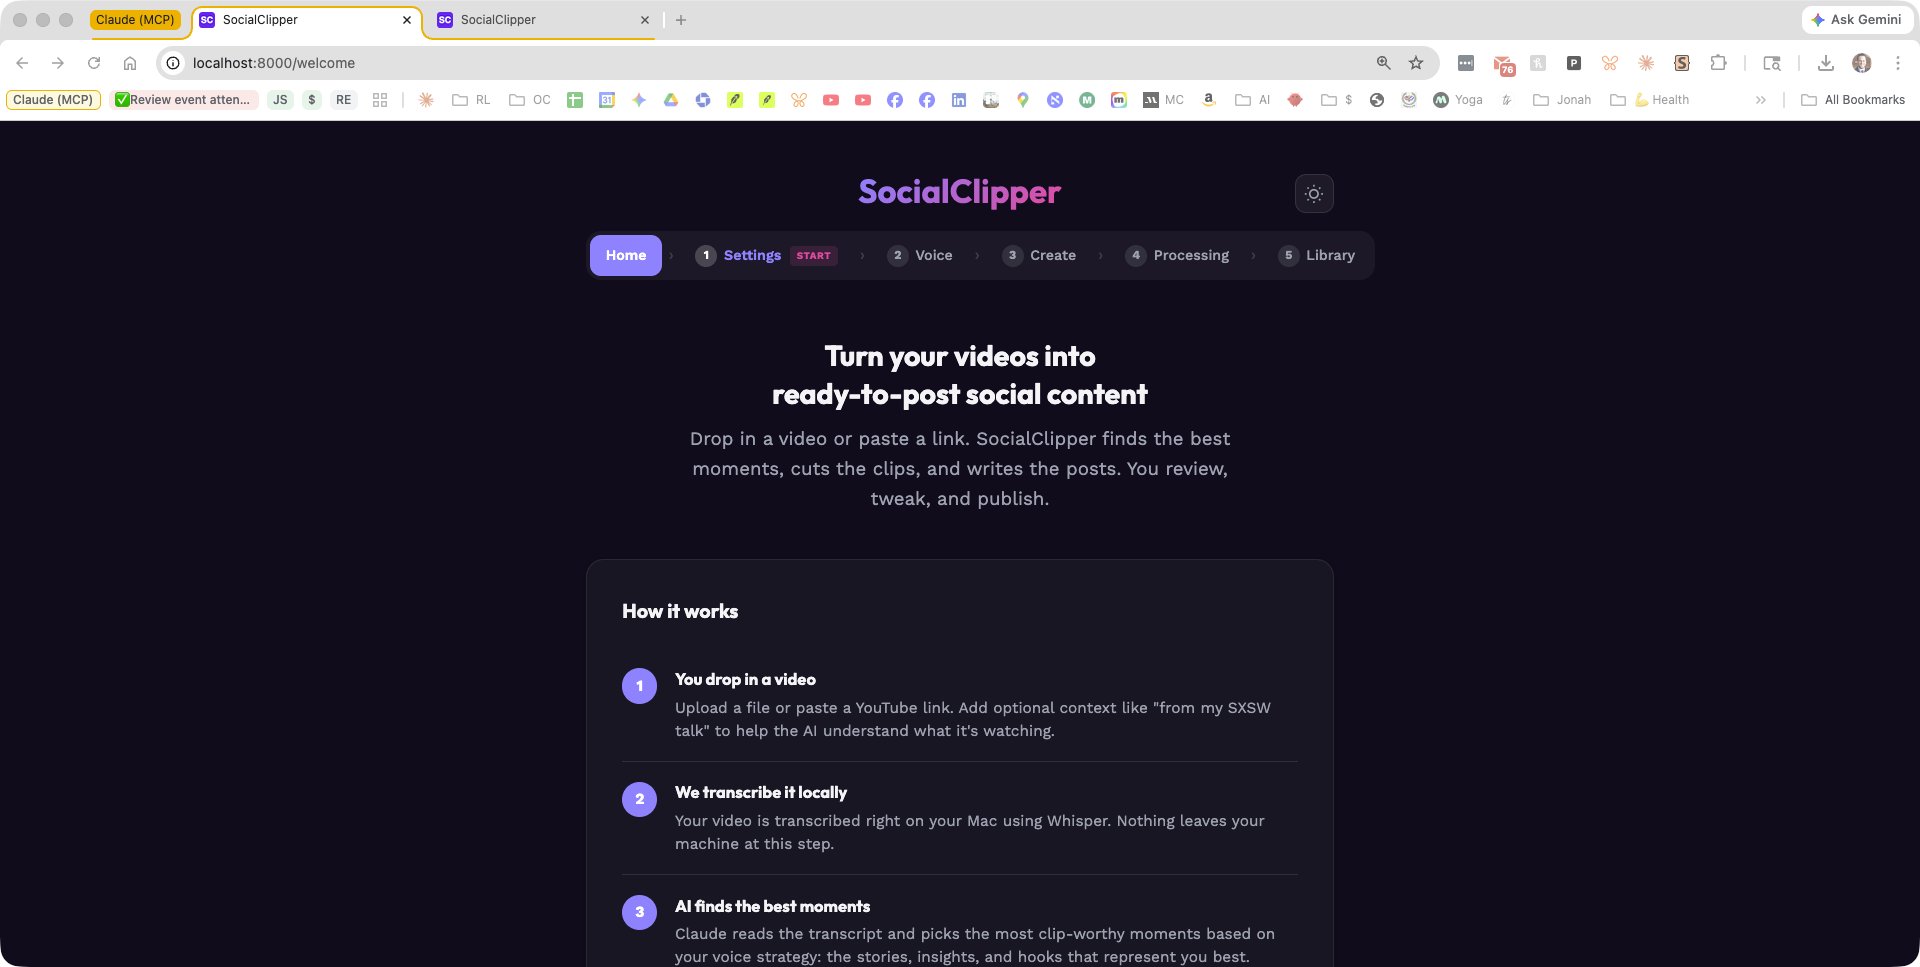
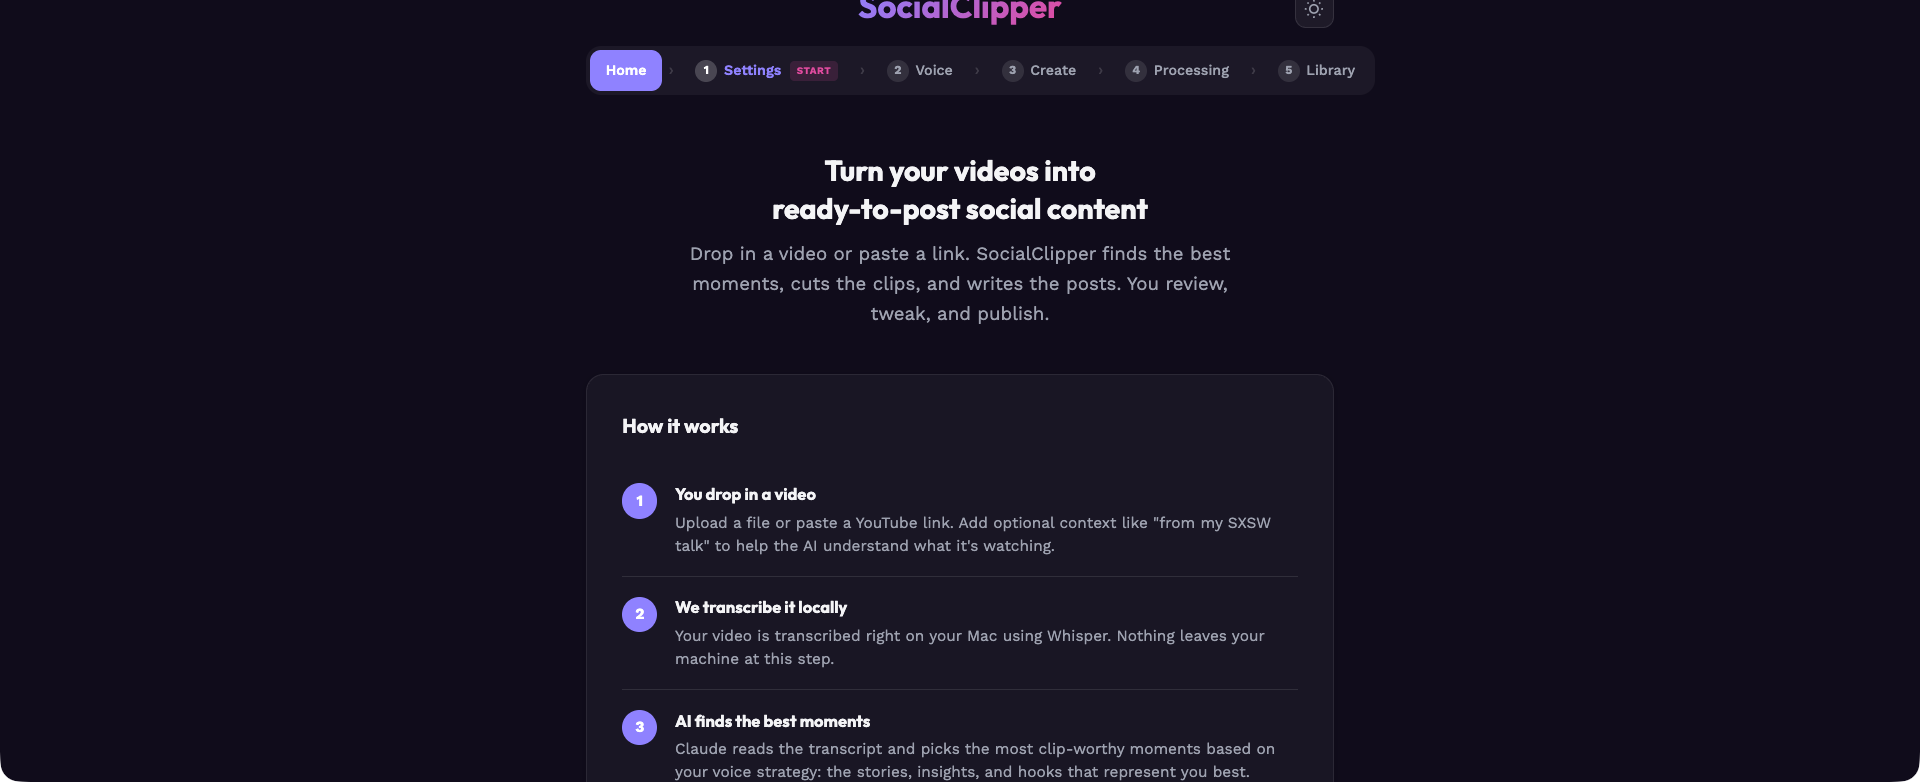
Remove library screenshot and fix home screenshot crop
Removed library screenshot (contained personal info) and committed
the cropped home screenshot that was missed in the previous commit.

diff --git a/README.md b/README.md
@@ -18,8 +18,6 @@ AI-powered video-to-social-clips pipeline. Drop in a video (or paste a YouTube U
 
 ![Settings — API key and cost breakdown](docs/screenshot-settings.png)
 
-![Library — browse clips, edit drafts, regenerate](docs/screenshot-library.png)
-
 ## Requirements
 
 - **macOS** with Apple Silicon (M1/M2/M3/M4) — MLX Whisper requires it
